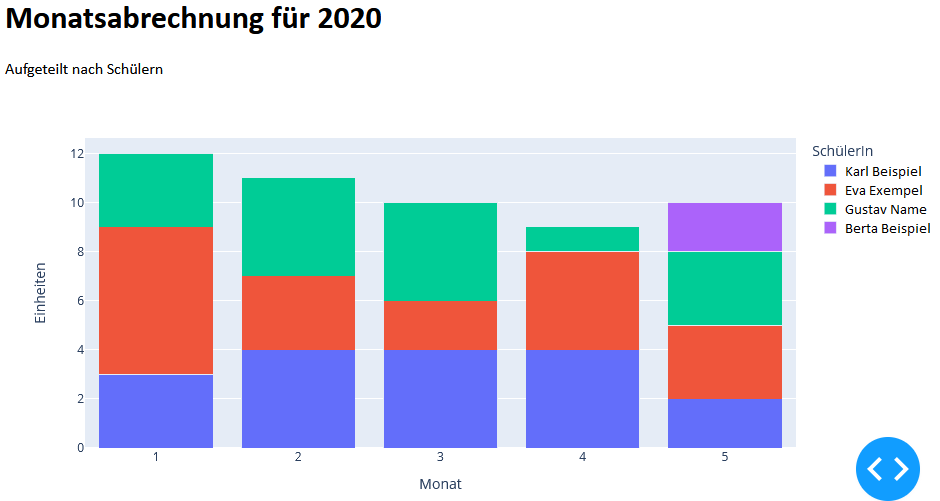
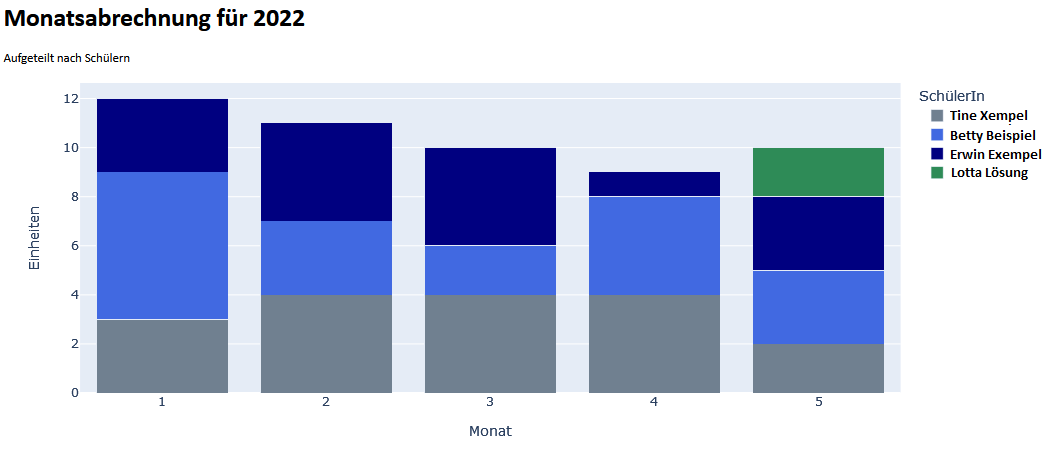
add color palette option

diff --git a/pysql/read.py b/pysql/read.py
@@ -5,6 +5,7 @@
 # while SSMS 2019 is running
 import numpy
 import pyodbc
+from colorthemes import colorthemes as ct
 
 # -- plotly imports
 from dash import Dash, html, dcc
@@ -82,7 +83,12 @@ class monthlytable:
             f.write("</body></html>")
         
         # Plotting
-        self.fig = px.bar(printabledataframe, x="Monat", y="Einheiten", color="SchülerIn", barmode="stack")
+        self.fig = px.bar(
+            printabledataframe,
+            x="Monat", y="Einheiten", color="SchülerIn",
+            barmode="stack",
+            color_discrete_sequence=ct.bluegreenpalette
+        )
         #barmode = 'group'
         #self.fig.update_layout(font_family="Calibri")
     

diff --git a/pysql/colorthemes.py b/pysql/colorthemes.py
@@ -1,0 +1,2 @@
+class colorthemes:
+    bluegreenpalette = ["slategrey", "royalblue", "navy", "seagreen", "forestgreen", "yellowgreen"]

diff --git a/doc/References.md b/doc/References.md
@@ -5,3 +5,4 @@ References
 3. Plotly/Dash for Python https://github.com/plotly/dash
 4. Dash in 20 Minutes Tutorial https://dash.plotly.com/tutorial
 5. Stackoverflow [Cursor fetchall to py DataFrame](https://stackoverflow.com/questions/63338790/how-to-convert-cursor-fetchall-to-python-data-frame)
+6. Colors https://matplotlib.org/stable/gallery/color/named_colors.html
